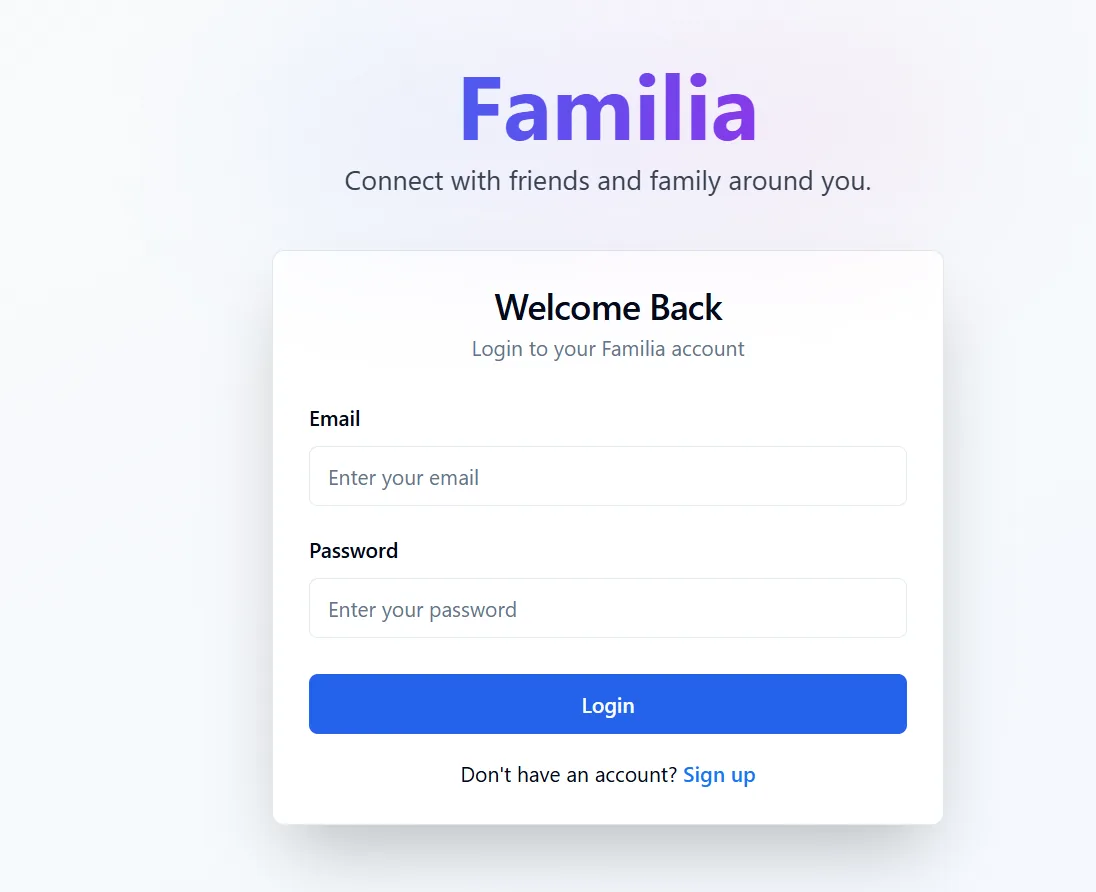
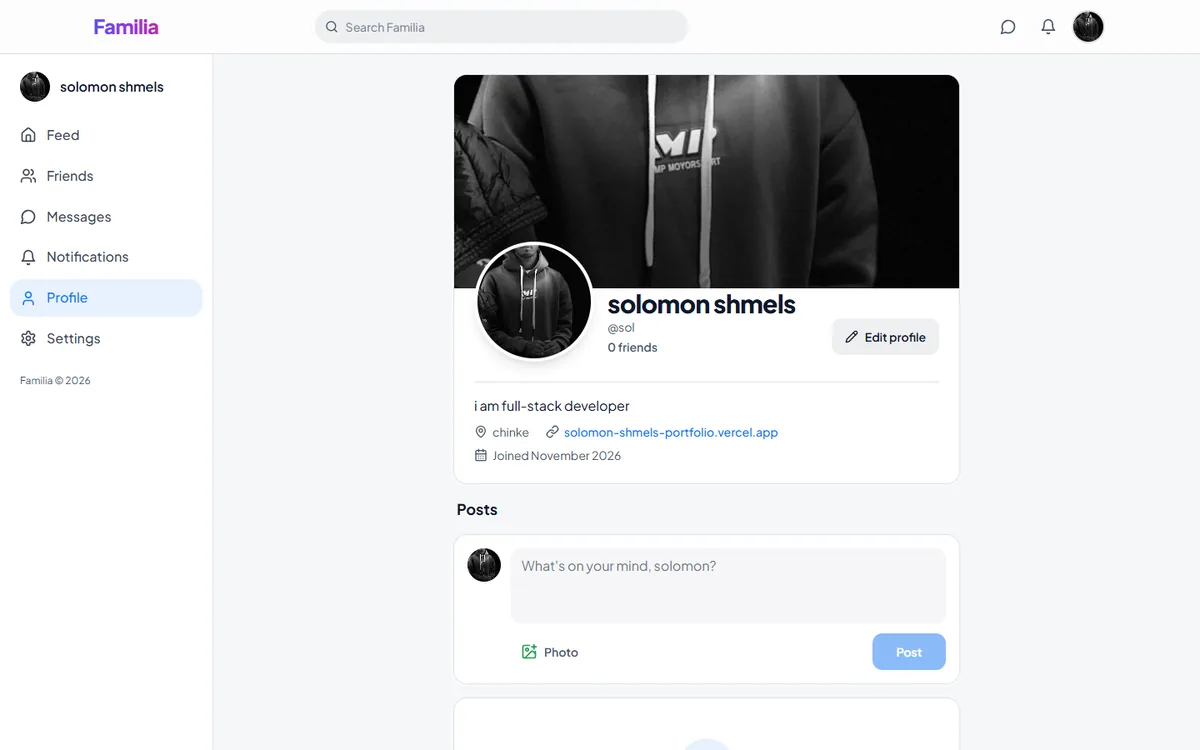
change the pic of familia project with it's details

diff --git a/src/data/projects.ts b/src/data/projects.ts
@@ -33,21 +33,22 @@ export const projects: Project[] = [
   {
     slug: 'familia',
     category: 'Social network',
-    image: { src: '/projects/familia.webp', alt: 'Familia login screen with email and password fields and a sign-up link', width: 1096, height: 892 },
+    image: { src: '/projects/familia.webp', alt: 'Familia profile page with a cover photo, avatar, bio and website link, a sidebar for feed, friends, messages, notifications and settings, and a post composer', width: 1200, height: 750 },
     name: 'Familia — Social Network',
     summary:
-      'A Facebook-style social network with real-time updates and image uploads, built to practise a modern stack on both the frontend and the backend.',
+      'A full-stack social network with posts and image uploads, friends, real-time chat with typing indicators and read receipts, and live notifications.',
     problem:
-      'A social app has to handle accounts, posts with images and live activity between users, which makes it a demanding end-to-end practice project.',
+      'A social app has to handle accounts, posts with images, friendships and live activity between users, and every one of those is a place where one user could read or spoof another user’s data.',
     contribution:
-      'Built the frontend and the backend: the Express API with Prisma, real-time events with Socket.IO, image uploads to Cloudinary, and the React client.',
+      'Built the frontend and the backend: the Express API with Prisma on PostgreSQL, real-time chat and notifications with Socket.IO, image uploads to Cloudinary and the React client, then hardened its security and redesigned the UI.',
     decisions: [
-      'Socket.IO on both server and client so new activity reaches users without refreshing.',
-      'Images are uploaded through Multer straight to Cloudinary instead of being stored on the API server.',
-      'Request bodies are validated with Joi, and passwords hashed with bcrypt behind JWT authentication.',
-      'TanStack Query handles server data and caching, while Zustand keeps the small amount of client state.',
+      'Socket.IO uses the same authentication as the REST API, and clients may only send typing events (to friends). Messages and notifications are emitted by the server only after they are saved, so they cannot be spoofed.',
+      'JWTs are pinned to HS256 and carry a password fingerprint, so changing a password signs out every other session. Login returns one generic error with constant-time checks, so accounts cannot be enumerated.',
+      'Rate limits on login, sign-up, messages and the whole API, Joi validation on every request, and only http(s) website links and Cloudinary image URLs are accepted.',
+      'A redesigned interface with a design system, dark mode, skeleton loaders and empty states, a bottom tab bar and single-pane chat on phones, and keyboard and reduced-motion support.',
+      'TanStack Query handles server data with optimistic updates, while Zustand keeps the small amount of client state.',
     ],
-    stack: ['React', 'TanStack Query', 'Zustand', 'Tailwind CSS', 'Node.js', 'Express', 'Prisma', 'Socket.IO', 'Cloudinary'],
+    stack: ['React', 'TanStack Query', 'Zustand', 'Tailwind CSS', 'Node.js', 'Express', 'Prisma', 'PostgreSQL', 'Socket.IO', 'Cloudinary'],
     links: {
       repo: 'https://github.com/Sol-Reactor/familia',
       live: 'https://familia-sable.vercel.app',
